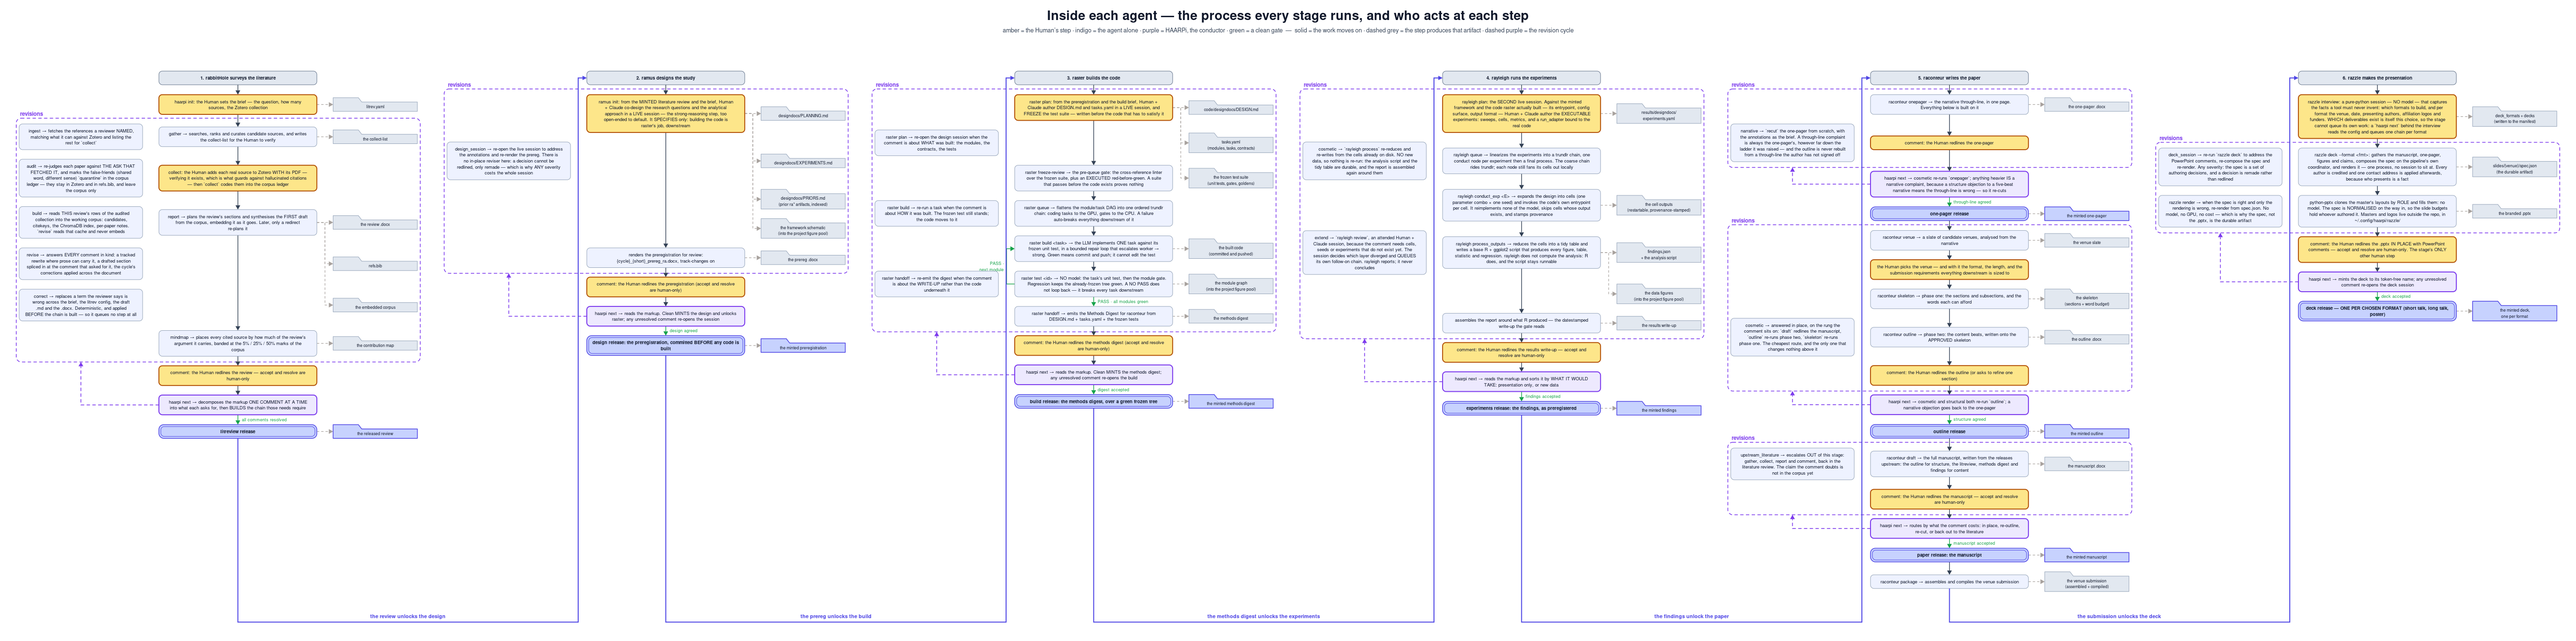
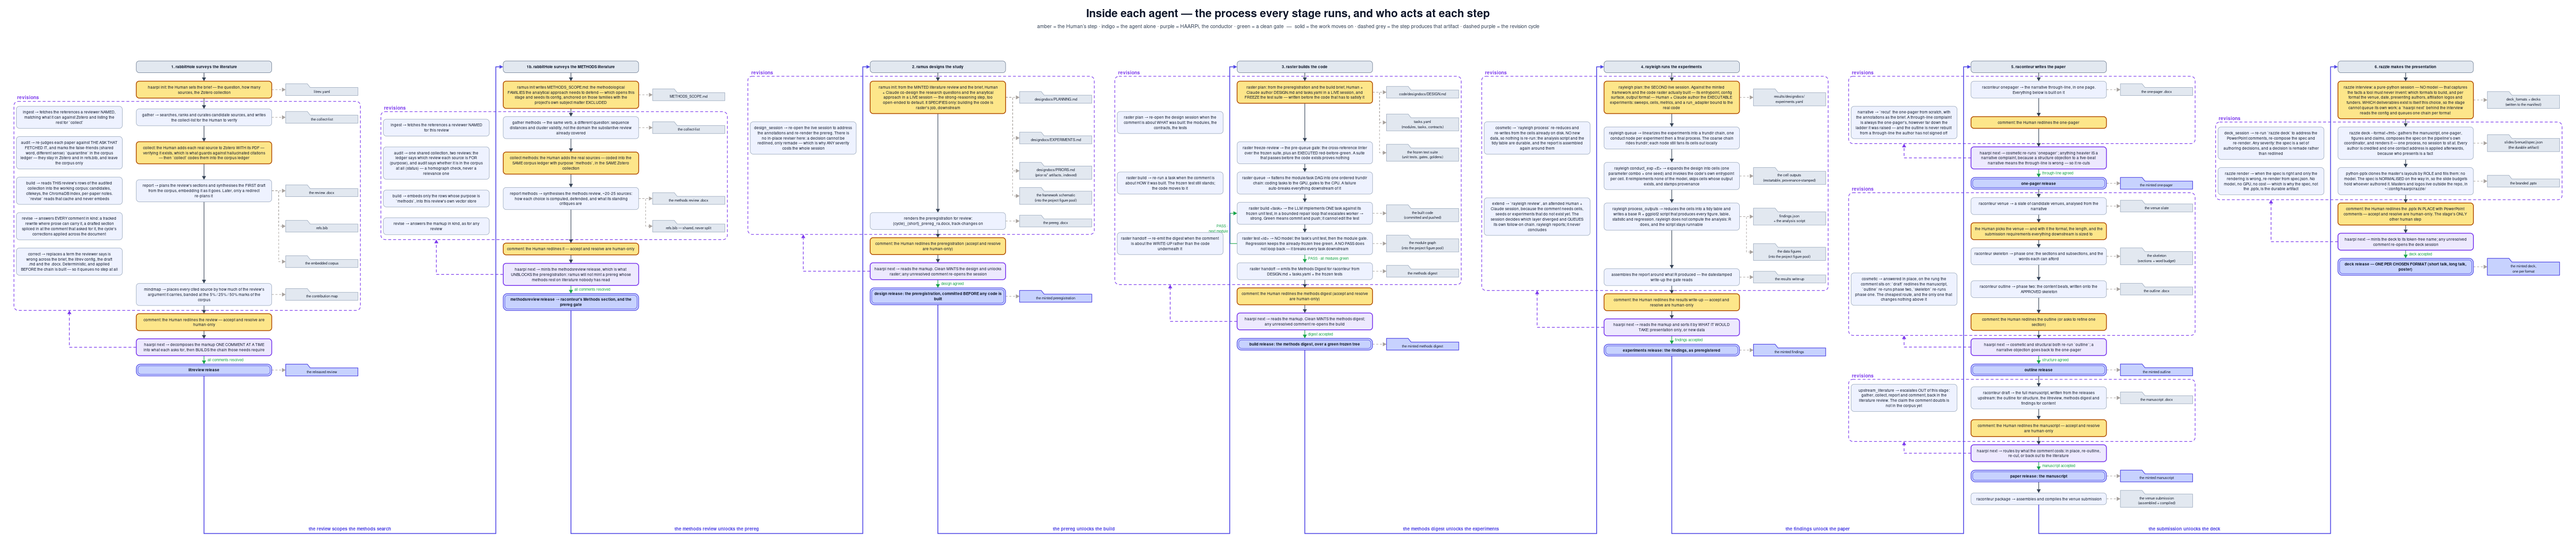
The drill-down was a whole stage short
You were right and I was wrong about what "reconcile the figures" means. I ran
the build on every push and read a green drift test as satisfying the rule. It
does not: the drift test reads the panels that EXIST and asks whether each is
still true. Nothing could notice a stage with no panel at all.

`methodsreview` shipped exactly that way, and the reason it was invisible is the
reason it was cheap to add — it shares STAGE_STEPS with `litreview`, so every
verb-coverage check saw nothing new and passed. Seven stages in the ladder, six
panels in the drawing, suite green. I had even written the caveat into this
session's own notes — a test cannot check whether a sentence is still true — and
then leaned on the test anyway.

So: a stage-1b panel for the methods review, drawing what actually differs rather
than repeating stage 1. The anchor inverted onto the methodological families with
the project's own subject matter EXCLUDED; one shared collection where the ledger
says which review a source is for and audit says whether it is in the corpus at
all; and the release that unblocks the prereg.

And the check that would have caught it: every stage in DEFAULT_STAGES must have
a panel. Verified it fails without the new file rather than trusting that it
would.

Two things the seventh panel broke, both from counting. The panel glob was
`stage[0-9]_*.py`, so a `stage1b_` file was silently skipped — widened, so a stage
[…]

diff --git a/figures/panels/stage1b_methods_review.py b/figures/panels/stage1b_methods_review.py
@@ -1,0 +1,72 @@
+#!/usr/bin/env python3
+"""Stage 1b (rabbitHole surveys the METHODS literature) — content only; emitter is
+wip_svg_panel.
+
+The same tool and the same verbs as stage 1, against a different question. It earns its own
+panel because it is a separate STAGE with its own release, and because what differs is the
+part a reader has to understand: the anchor is inverted onto the methodological families and
+the project's own subject matter is EXCLUDED. A five-round steering effort failed to find
+sequence-analysis methodology precisely by getting that backwards.
+"""
+
+
+# ── what this panel claims to depict ──────────────────────────────────────────
+# Checked against planner.STAGE_STEPS / STAGE_TIERS by test_figure_drift.py.
+STAGE = "methodsreview"
+COVERS = {
+ "gather": "gather", "collect": "collect", "report": "report",
+ "mindmap": "mm", "comment": "comm",
+ "ingest": "ingest", "audit": "audit", "build": "build", "revise": "revise",
+}
+OMITS = {
+ "graft": "vestigial: only cli.py reaches graft.run(); see the stage-1 panel",
+}
+
+ROWS = [
+ ("hdr",     None,      None),
+ ("scope",   None,      "a_scope"),
+ ("gather",  "ingest",  "a_list"),
+ ("collect", "audit",   None),
+ ("report",  "build",   "a_docx"),
+ (None,      "revise",  "a_refs"),
+ ("comm",    None,      None),
+ ("gate",    None,      None),
+ ("rel",     None,      None),
+]
+BAND = (2, 5)
+
+SPINE = {
+ "hdr": ("head", "1b. rabbitHole surveys the METHODS literature"),
+ "scope": ("amber", "ramus init writes METHODS_SCOPE.md: the methodological FAMILIES the "
+                    "analytical approach needs to defend — which opens this stage and seeds "
+                    "its config, anchored on those families with the project's own subject "
+                    "matter EXCLUDED"),
+ "gather": ("indigo", "gather methods  →  the same verb, a different question: sequence "
+                      "distances and cluster validity, not the domain the substantive review "
+                      "already covered"),
+ "collect": ("amber", "collect methods: the Human adds the real sources — coded into the SAME "
+                      "corpus ledger with purpose `methods`, in the SAME Zotero collection"),
+ "report": ("indigo", "report methods  →  synthesises the methods review, ~20-25 sources: how "
+                      "each choice is computed, defended, and what its standing critiques are"),
+ "mm": ("indigo", "mindmap  →  the contribution map, as for any review"),
+ "comm": ("amber", "comment: the Human redlines it — accept and resolve are human-only"),
+ "gate": ("purple", "haarpi next  →  mints the methodsreview release, which is what UNBLOCKS "
+                    "the preregistration: ramus will not mint a prereg whose methods rest on "
+                    "literature nobody has read"),
+ "rel": ("mint", "methodsreview release  →  raconteur's Methods section, and the prereg gate"),
+}
+LANE = {
+ "ingest": "ingest  →  fetches the references a reviewer NAMED for this review",
+ "audit":  "audit  →  one shared collection, two reviews: the ledger says which review each "
+           "source is FOR (purpose), and audit says whether it is in the corpus at all "
+           "(status) — a homograph check, never a relevance one",
+ "build":  "build  →  embeds only the rows whose purpose is `methods`, into this review's own "
+           "vector store",
+ "revise": "revise  →  answers the markup in kind, as for any review",
+}
+ARTS = {
+ "a_scope": "METHODS_SCOPE.md", "a_list": "the collect-list",
+ "a_docx": "the methods review .docx", "a_refs": "refs.bib — shared, never split",
+}
+MAKES = [("scope","a_scope"), ("gather","a_list"), ("report","a_docx"), ("build","a_refs")]
+OPTS = {}

diff --git a/figures/panels/_stitch.py b/figures/panels/_stitch.py
@@ -13,11 +13,20 @@ from pathlib import Path
 
 GAP, MARGIN, HEAD = 26, 22, 96
 INK, MINT = "#334155", "#4f46e5"
-HANDOFF = [("the review",      "unlocks the design"),
-           ("the prereg",      "unlocks the build"),
-           ("the methods digest", "unlocks the experiments"),
-           ("the findings",    "unlock the paper"),
-           ("the submission",  "unlocks the deck")]
+# One label per JOIN between panels, so this list is always one shorter than the panels and
+# must be extended whenever a stage is inserted. It was silently indexed by position and threw
+# IndexError the first time the ladder grew; now it is keyed by the pair it sits between, and a
+# pair with no label draws an unlabelled bus rather than crashing the build.
+STAGES_IN_ORDER: list = []
+HANDOFF_BY_PAIR = {
+    ("litreview", "methodsreview"): ("the review", "scopes the methods search"),
+    ("methodsreview", "design"):    ("the methods review", "unlocks the prereg"),
+    ("litreview", "design"):        ("the review", "unlocks the design"),
+    ("design", "build"):            ("the prereg", "unlocks the build"),
+    ("build", "experiments"):       ("the methods digest", "unlocks the experiments"),
+    ("experiments", "paper"):       ("the findings", "unlock the paper"),
+    ("paper", "deck"):              ("the submission", "unlocks the deck"),
+}
 
 def panel(path):
     txt = Path(path).read_text(encoding="utf-8")
@@ -26,6 +35,19 @@ def panel(path):
     return body, a
 
 def stitch(paths, out):
+    # The stage each panel depicts, in the order they are stitched — so a handoff label can be
+    # looked up by the pair it sits between rather than by a position that shifts whenever a
+    # stage is inserted.
+    global STAGES_IN_ORDER
+    STAGES_IN_ORDER = []
+    for _p in paths:
+        stem = Path(_p).stem
+        try:
+            import importlib, sys
+            sys.path.insert(0, str(Path(_p).parent.parent))
+            STAGES_IN_ORDER.append(getattr(importlib.import_module(stem), "STAGE", stem))
+        except Exception:  # noqa: BLE001
+            STAGES_IN_ORDER.append(stem)
     panels = [panel(p) for p in paths]
     ph = max(a["height"] for _b, a in panels)
     bus = HEAD + ph + 46                       # the hand-off bus, clear of every panel
@@ -65,7 +87,10 @@ def stitch(paths, out):
         S.append(f'<polygon points="{xs[i+1]+a1["spine_x"]:.1f},{y1:.1f} '
                  f'{xs[i+1]+a1["spine_x"]-9:.1f},{y1-4.5:.1f} '
                  f'{xs[i+1]+a1["spine_x"]-9:.1f},{y1+4.5:.1f}" fill="{MINT}"/>')
-        lab_a, lab_b = HANDOFF[i]
+        pair = (STAGES_IN_ORDER[i], STAGES_IN_ORDER[i + 1]) if i + 1 < len(STAGES_IN_ORDER) else None
+        lab_a, lab_b = HANDOFF_BY_PAIR.get(pair, ("", ""))
+        if not lab_a and not lab_b:
+            continue
         S.append(f'<text x="{(x0+x1)/2:.1f}" y="{bus-8:.1f}" text-anchor="middle" '
                  f'font-family="Helvetica,Arial,sans-serif" font-size="11" font-weight="bold" '
                  f'fill="{MINT}">{lab_a} {lab_b}</text>')

diff --git a/packages/haarpi/tests/test_figure_drift.py b/packages/haarpi/tests/test_figure_drift.py
@@ -28,7 +28,7 @@ pytestmark = pytest.mark.skipif(not PANELS.is_dir(), reason="figure sources not 
 
 def _modules():
     sys.path.insert(0, str(PANELS))
-    for p in sorted(PANELS.glob("stage[0-9]_*.py")):
+    for p in sorted(PANELS.glob("stage[0-9]*_*.py")):
         yield importlib.import_module(p.stem)
 
 
@@ -195,3 +195,19 @@ def test_the_readme_lists_the_umbrella_cli_as_it_is():
     assert not missing, f"README's CLI line omits {sorted(missing)}"
     stray = listed - real
     assert not stray, f"README's CLI line names {sorted(stray)}, which `haarpi` does not offer"
+
+
+def test_every_stage_in_the_ladder_has_a_panel():
+    """THE GAP THAT LET A WHOLE STAGE GO UNDRAWN.
+
+    Every other check here reads the panels and asks whether each is still true of the code.
+    None of them could notice a stage with NO panel at all — and `methodsreview` shipped that
+    way, because it shares `STAGE_STEPS` with `litreview`, so the verb-coverage checks saw
+    nothing new and passed. The drawing was a stage short and the suite was green.
+    """
+    from haarpi import project
+    drawn = {getattr(m, "STAGE", None) for m in ALL}
+    missing = sorted(set(project.DEFAULT_STAGES) - drawn)
+    assert not missing, (
+        f"{missing} in the stage ladder with no panel in figures/panels/ — the drill-down "
+        f"cannot describe a pipeline it does not draw")

diff --git a/figures/panels/build.py b/figures/panels/build.py
@@ -10,7 +10,9 @@ from pathlib import Path
 
 HERE = Path(__file__).resolve().parent
 OUT, FIGS = HERE / "out", HERE.parent
-STAGES = sorted(p.stem for p in HERE.glob("stage[0-9]_*.py"))
+# stage[0-9]* plus suffixed panels like stage1b_: a stage can be inserted between two
+# others without renumbering every file after it.
+STAGES = sorted(p.stem for p in HERE.glob("stage[0-9]*_*.py"))
 
 
 def cairosvg_png(src: Path, dst: Path, width: int) -> None:
